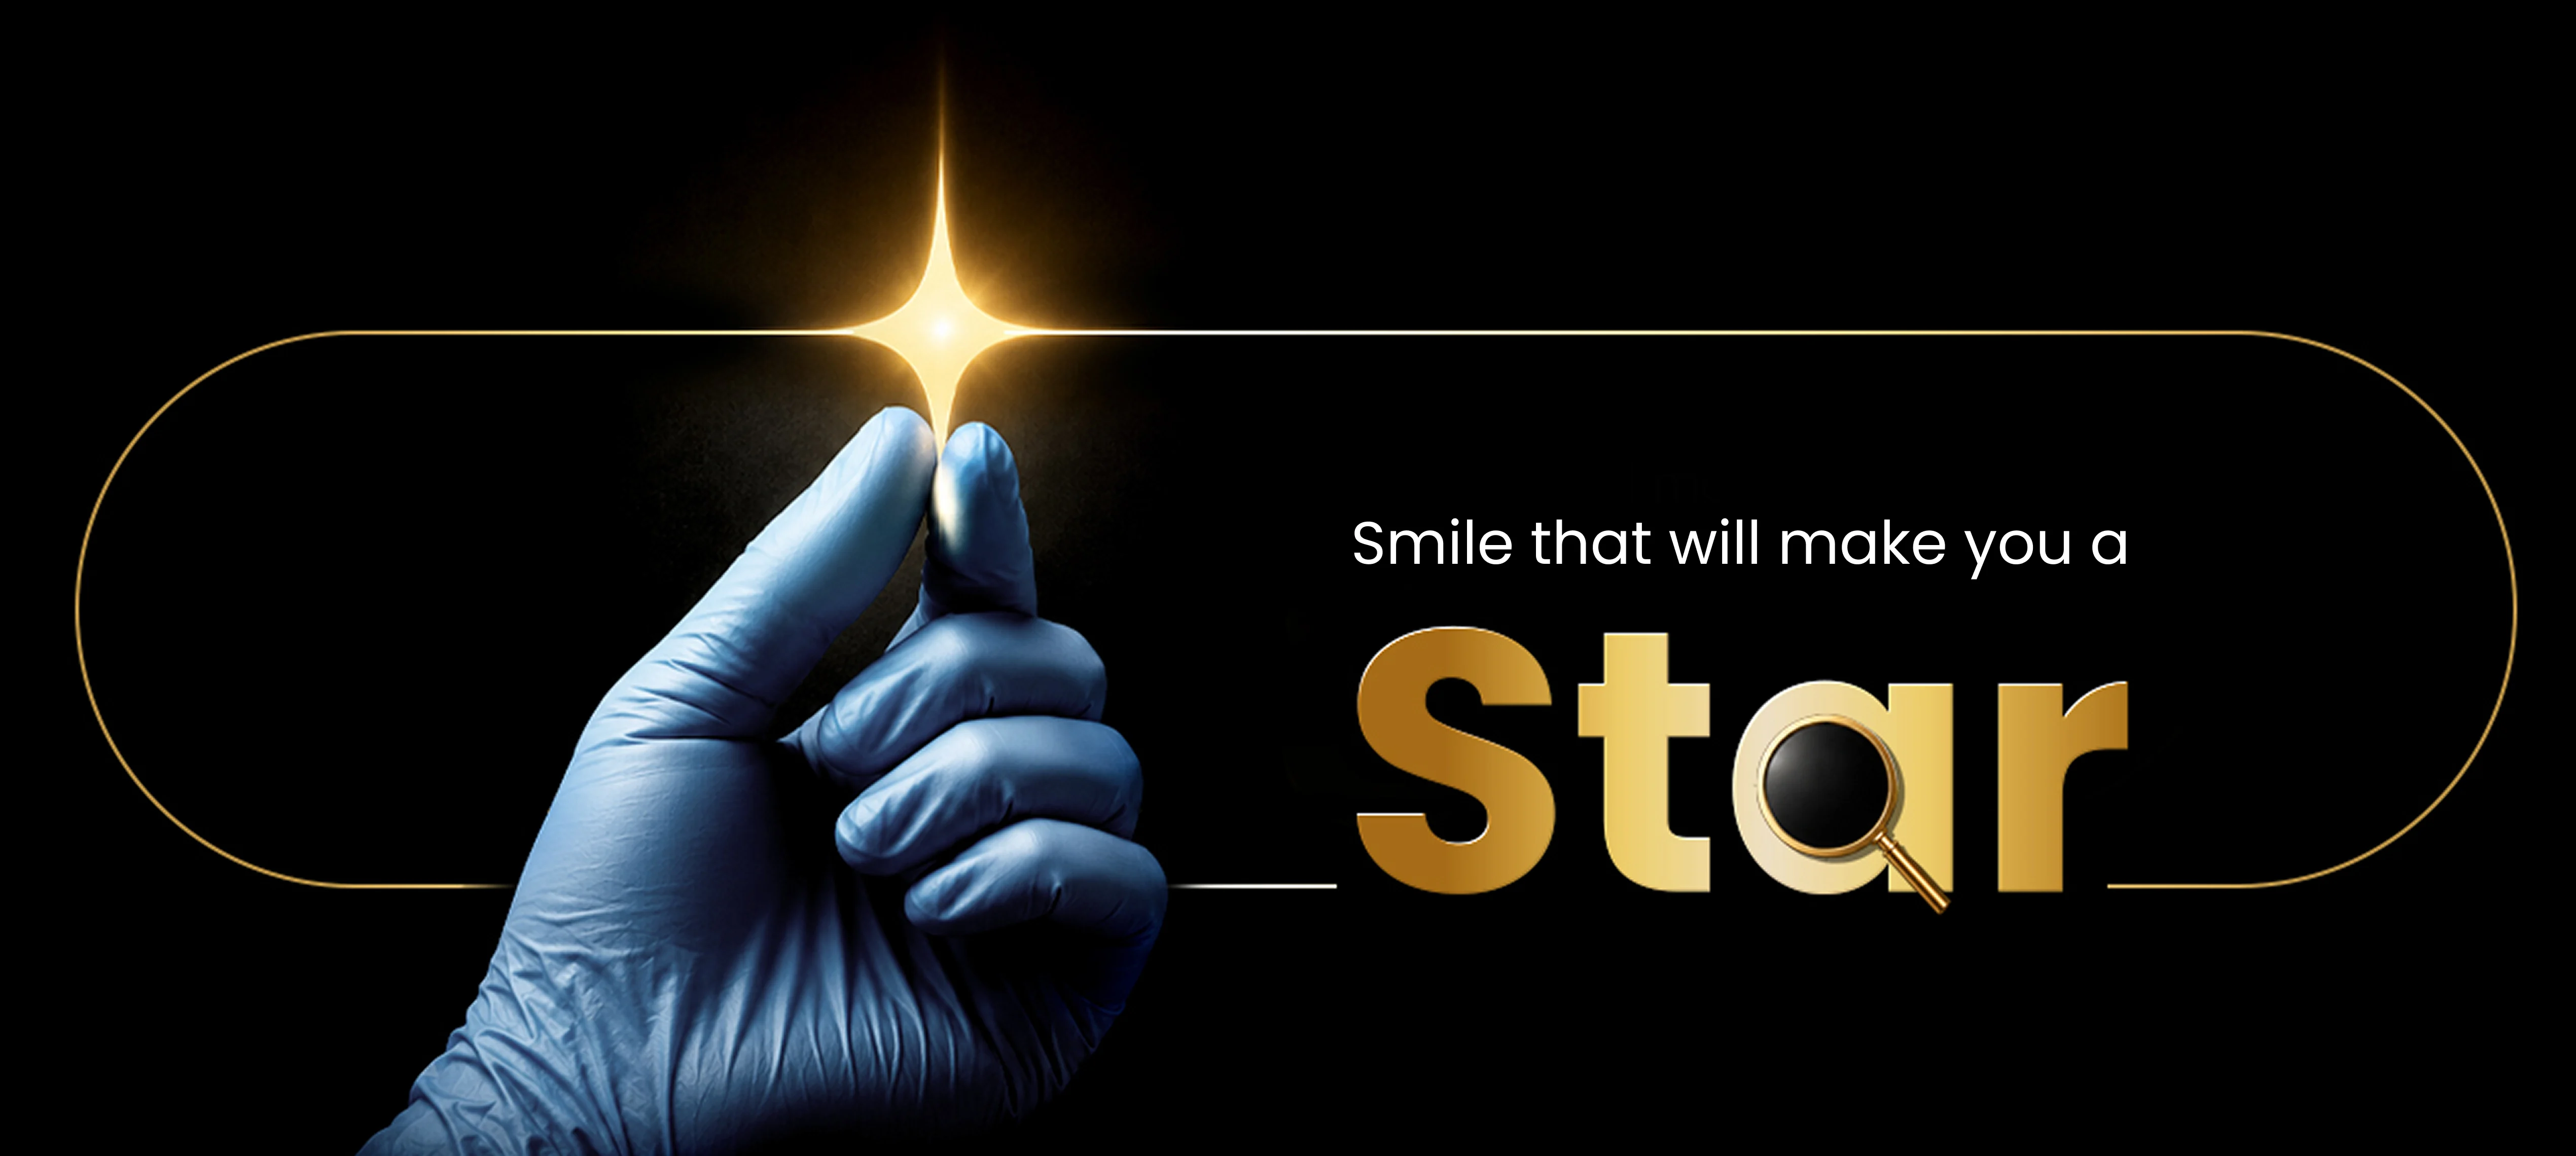
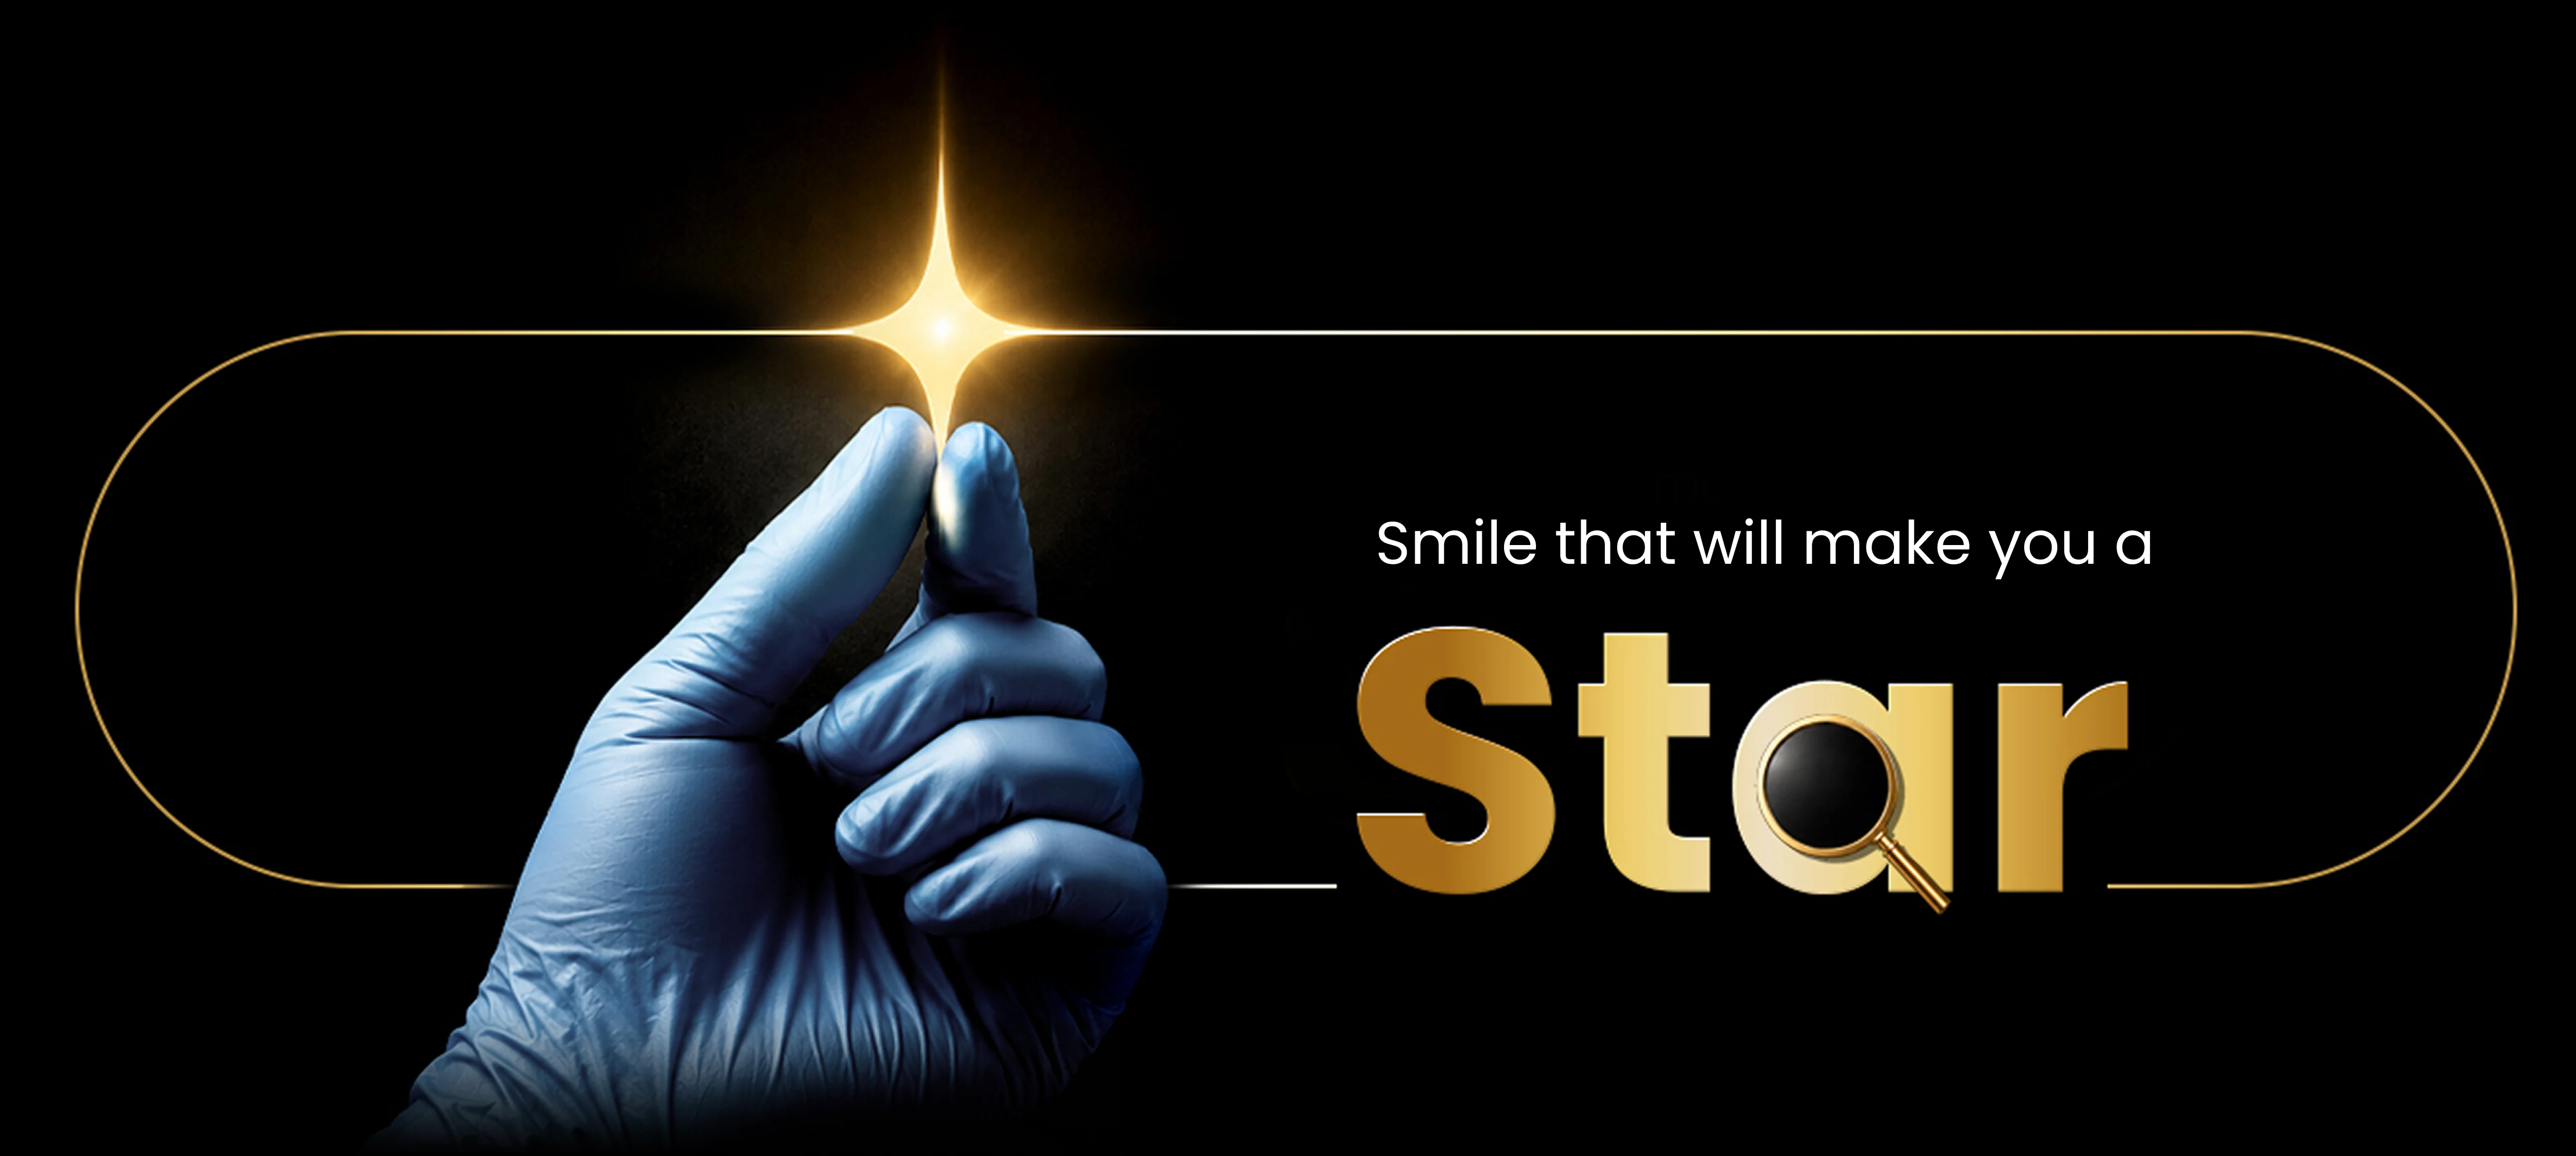
make a  hero_banner 100vh

Changed region(s): [[0.1244, 0.8719, 0.3732, 1.0], [0.5287, 0.436, 0.8398, 0.4982]]

diff --git a/static/css/updated-home.css b/static/css/updated-home.css
@@ -1,14 +1,17 @@
 /* -----------------------New Banner section -------------------------- */
+.page-wraper {
+  overflow: hidden;
+}
 
 .new_banner_section_main{
-  height: auto;
-  padding-top: 80px;
+  width: 100%;
+  height: 100dvh;
+  display: flex;
+  justify-content: center;
+  align-items: center;
+  overflow: hidden !important;
 }
-@media(max-width:992px){
-  .new_banner_section_main{
-    padding-top: 60px;
-  }
-}
+
 
 /* -----------------------Banner section -------------------------- */
 /* .page-wraper {
@@ -261,6 +264,10 @@
 @media (max-width: 992px) {
   .Developer_Section {
     padding: 20px 0px 15px !important;
+  }
+  
+  .Discover_Group {
+    padding: 40px 166px;
   }
 
   .mainImageCard {